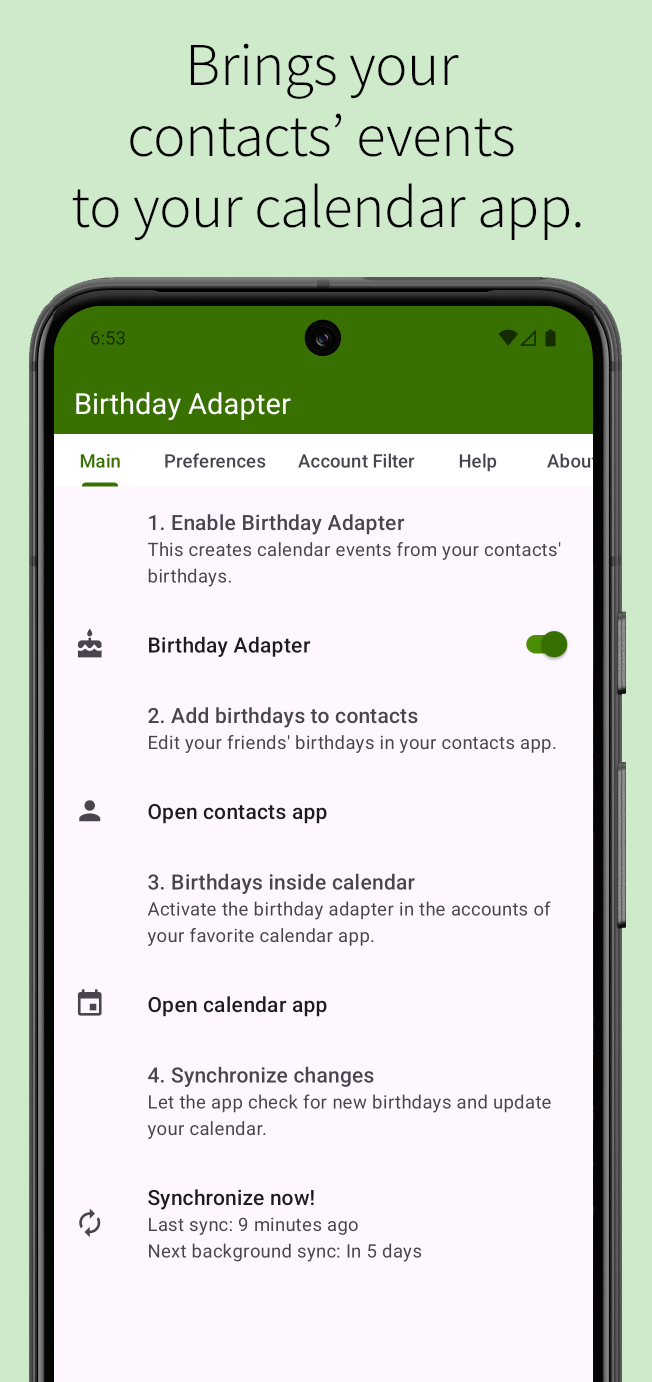
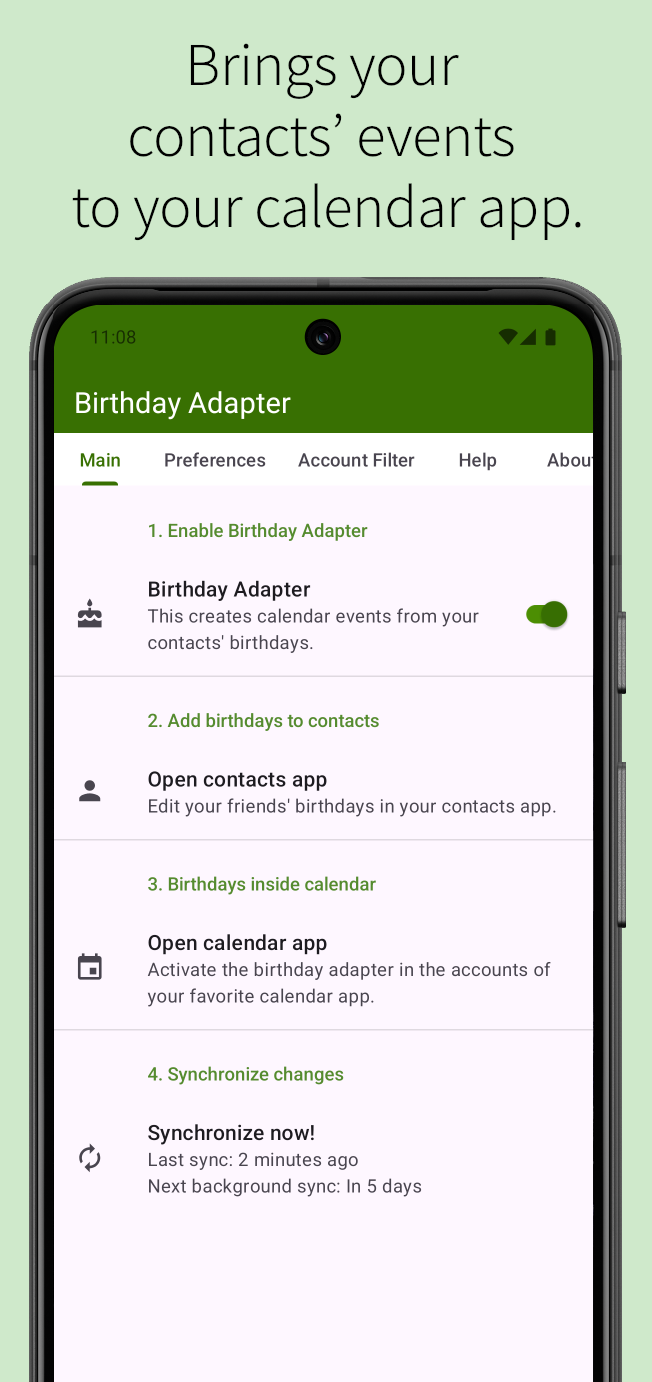
Clean up main settings page, use switches instead of checkboxes

diff --git a/Birthday-Calendar/src/main/java/fr/heinisch/birthdayadapter/ui/BasePreferenceFragment.java b/Birthday-Calendar/src/main/java/fr/heinisch/birthdayadapter/ui/BasePreferenceFragment.java
@@ -44,7 +44,7 @@ import androidx.annotation.Nullable;
 import androidx.core.content.ContextCompat;
 import androidx.preference.Preference;
 import androidx.preference.PreferenceFragmentCompat;
-import androidx.preference.SwitchPreferenceCompat;
+import androidx.preference.TwoStatePreference;
 import androidx.work.WorkInfo;
 import androidx.work.WorkManager;
 
@@ -63,7 +63,7 @@ import fr.heinisch.birthdayadapter.util.SyncStatusManager;
 public class BasePreferenceFragment extends PreferenceFragmentCompat {
     private AccountHelper mAccountHelper;
 
-    private SwitchPreferenceCompat mEnabled;
+    private TwoStatePreference mEnabled;
     private Preference forceSyncPref;
     private SharedPreferences mSyncStatusPrefs;
     private WorkInfo mBirthdaySyncWorkInfo;

diff --git a/Birthday-Calendar/src/main/java/fr/heinisch/birthdayadapter/provider/BirthdayAdapterProvider.java b/Birthday-Calendar/src/main/java/fr/heinisch/birthdayadapter/provider/BirthdayAdapterProvider.java
@@ -104,7 +104,7 @@ public class BirthdayAdapterProvider extends ContentProvider {
     @Nullable
     @Override
     public Uri insert(@NonNull Uri uri, @Nullable ContentValues values) {
-        Log.d(Constants.TAG, "insert(uri=" + uri + ", values=" + values + ")");
+        // Log.d(Constants.TAG, "insert(uri=" + uri + ", values=" + values + ")");
 
         final SQLiteDatabase db = mBirthdayAdapterDatabase.getWritableDatabase();
 
